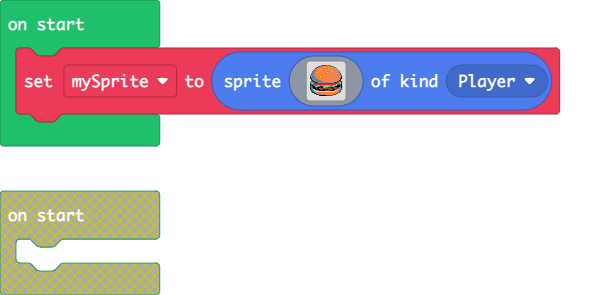
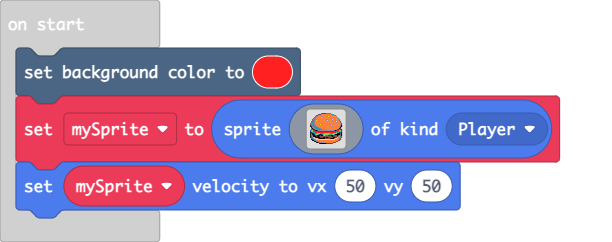
added velocity and background color

diff --git a/main.ts b/main.ts
@@ -1,3 +1,4 @@
+scene.setBackgroundColor(2)
 let mySprite = sprites.create(img`
     ...........ccccc66666...........
     ........ccc4444444444666........
@@ -32,3 +33,4 @@ let mySprite = sprites.create(img`
     .........fffffffcccccee.........
     ................................
     `, SpriteKind.Player)
+mySprite.setVelocity(50, 50)
